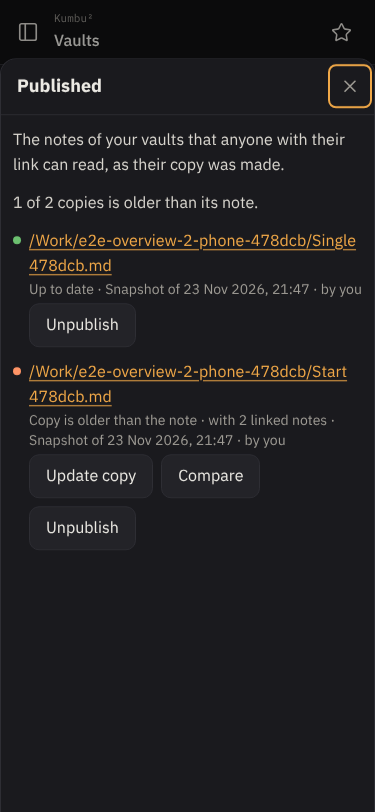
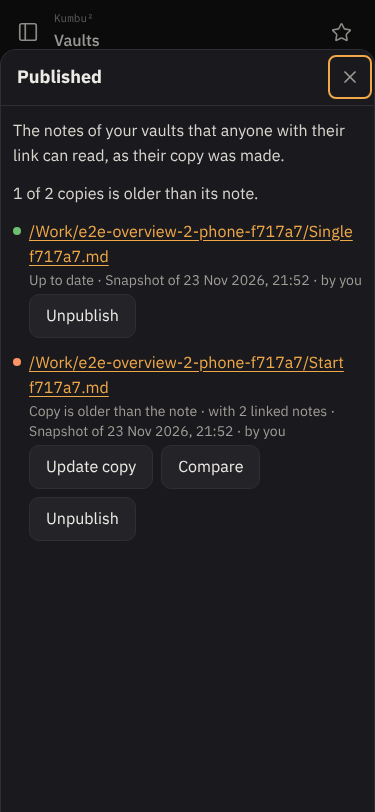
Test that a hidden discreet vault stays out of the Published window
Claude-Session: https://claude.ai/code/session_0192MxAnnwqP6K7HyD6qKaCm

Changed region(s): [[0.0293, 0.0616, 1.0, 0.6773], [0.0293, 0.0616, 0.264, 0.1232], [0.8507, 0.3387, 0.968, 0.3695]]

diff --git a/web/e2e/overview/overview.spec.ts b/web/e2e/overview/overview.spec.ts
@@ -8,7 +8,9 @@
 // 1. Opened from the drawer's account row ("Published") and from the palette ("Open / Published"); `/published`
 //    loads it; the row's path is a link to the note → overview #1.
 // 2. Per row: the path, the dot and word ("Up to date", "Copy is older than the note"), "with N linked notes" for a
-//    bundle, the snapshot's time and who published it → overview #2.
+//    bundle, the snapshot's time and who published it ("by you") → overview #2. Another publisher ("by “name”") is
+//    out of reach here (Bob is a read-only member and can't publish); Vitest covers it (PublishedPage.test.tsx, "lists
+//    her publications with who published them, and whether the copy is older").
 // 3. "N of M copies are older than their notes." above the list, and the rows by path, across vaults → overview #9
 //    (@serial: the list is every publication of Alice's; the expected one is read from GET /api/publications first).
 // 4. Update copy only on an older copy; after it the row is "Up to date" → overview #2 (only where older), #3; for a
@@ -17,7 +19,7 @@
 // 7. Compare on the row and on the note's bar, only where the copy is older: the note at the copy's version beside the
 //    note now → overview #6; a version the history no longer keeps says so → overview #7 (the history keeps 10
 //    versions, NoteWriter.HistoryLimit: twelve writes alternating between Alice and an agent push it out); a copy made
-//    after an edit in the same session → overview #8.
+//    after an edit in the same session → overview #8 (F-04).
 // 8. Never a reader link on the page, nor in the overview's answer → overview #2.
 // Left out: 6, publishing switched off on the server (one line says so, Update copy goes, Unpublish stays): it needs a
 // stack started with Kumbu__Publish__Enabled=false, a phase of its own (plan, review point 15); Vitest covers it
@@ -26,7 +28,7 @@
 import type { Locator, Page, TestInfo } from "@playwright/test";
 import { randomBytes } from "node:crypto";
 import { Api, encodePath, guarded } from "../support/api";
-import { baseURL, secrets } from "../support/env";
+import { secrets } from "../support/env";
 import { reservePassword, reserveReaderRead } from "../support/session";
 import { expect, onPhone, shot, shotsDir070, test } from "../support/test";
 
@@ -106,6 +108,8 @@ async function openPublished(page: Page) {
 /** Clean-ups a test registers before it writes: they run after it even when it timed out. */
 let cleanUps: (() => Promise<void>)[] = [];
 const afterTest = (cleanUp: () => Promise<void>) => void cleanUps.push(cleanUp);
+// windowOpen may wait for the password ledger (61 s), and #9 deletes a vault with the password.
+test.beforeEach(() => test.setTimeout(240_000));
 test.afterEach(async () => {
   for (const cleanUp of cleanUps.reverse()) await cleanUp().catch(() => undefined);
   cleanUps = [];
@@ -183,9 +187,7 @@ test("overview #2: a row shows its path, state, linked notes, snapshot and publi
 
   // Never a reader link: not on the page, not in the overview's answer (booleans only).
   const onPage = await published(page).evaluate(
-    (d, origin) => d.textContent!.includes(`${origin}/s#`) || d.textContent!.includes("/s#") || [...d.querySelectorAll("a")].some((a) => a.getAttribute("href")!.includes("/s#")),
-    baseURL,
-  );
+(d) => (d.textContent ?? "").includes("/s#") || [...d.querySelectorAll("a")].some((a) => (a.getAttribute("href") ?? "").includes("/s#")));
   expect(onPage, "no reader link on the Published page").toBe(false);
   await expect(published(page).getByRole("button", { name: /Copy link/ })).toHaveCount(0);
   const answer = await aliceApi.send("GET", "/api/publications");
@@ -303,8 +305,8 @@ test("overview #7: Compare says so when the history no longer keeps the copy's v
   await aliceApi.putNote(path, "# Reef\n\nWrite 0.\n");
   await publish(aliceApi, path);
   const copied = (await publication(aliceApi, path)).copied![0].version;
-  // Twelve writes, Alice's and an agent's in turn: each starts a changeset of its own, so each leaves a version, and
-  // the history keeps ten (NoteWriter.HistoryLimit).
+  // Twelve writes, Alice's and an agent's in turn: each replaces a state of the other writer's changeset, so none
+  // coalesces and each leaves a version (NoteWriter.cs:132-134); the history keeps ten (NoteWriter.HistoryLimit).
   for (let i = 1; i <= 12; i++) {
     const content = `# Reef\n\nWrite ${i}.\n`;
     if (i % 2) await aliceApi.putNote(path, content);
@@ -328,7 +330,7 @@ test("overview #7: Compare says so when the history no longer keeps the copy's v
 });
 
 test("overview #8: Compare shows the copy's version after a note was edited, published and edited again in one session @overview", async ({ page, aliceApi, folder }) => {
-  test.info().annotations.push({ type: "finding", description: "F-04: a copy made within a changeset loses its version at the next write of it, so Compare says it is no longer kept" });
+  test.info().annotations.push({ type: "finding", description: "F-04: a copy made within a changeset loses its version at the next write of it, so Compare says it is no longer kept; a fix likely makes publishing a checkpoint of the note (an ADR)" });
   test.fail();
   const n = named(folder);
   const path = n.path("Shore");
@@ -337,20 +339,26 @@ test("overview #8: Compare shows the copy's version after a note was edited, pub
   await aliceApi.putNote(path, "# Shore\n\nDraft.\n");
   await aliceApi.putNote(path, "# Shore\n\nThe old line.\n");
   await publish(aliceApi, path);
+  const copied = (await publication(aliceApi, path)).copied![0].version;
   await aliceApi.putNote(path, "# Shore\n\nThe new line.\n");
+  // Read back: soft, so the window's Compare is checked too.
+  const kept = (await aliceApi.history(path)) as { version: string }[];
+  expect.soft(
+    kept.some((v) => v.version === copied),
+    "F-04: the history keeps the version the copy was made from",
+  ).toBe(true);
 
   await openPublished(page);
   await row(page, path).getByRole("button", { name: `Compare copy of ${path}`, exact: true }).click();
   const sheet = page.getByRole("dialog", { name: `Compare ${n.name("Shore")}` });
   await expect(sheet.getByRole("list", { name: "Now" }).getByRole("listitem")).toHaveText(["# Shore", "", "The new line.", ""]);
-  await expect(sheet.getByText("This version is no longer kept", { exact: true }), "F-04: Compare shows the copy's version, not that it is no longer kept").toHaveCount(0, {
-    timeout: 3_000,
-  });
-  await expect(sheet.getByRole("list", { name: "Published copy" }).getByRole("listitem")).toHaveText(["# Shore", "", "The old line.", ""]);
+  await expect(
+    sheet.getByRole("list", { name: "Published copy" }).getByRole("listitem"),
+    "F-04: the Published copy column holds the note at the copy's version",
+  ).toHaveText(["# Shore", "", "The old line.", ""]);
 });
 
 test("overview #9: the count line and the rows, by path across vaults @overview @serial", async ({ page, aliceApi, folder }) => {
-  test.setTimeout(240_000);
   const n = named(folder);
   const vault = `Overview-${randomBytes(3).toString("hex")}`;
   const other = `/${vault}/Elsewhere.md`;
